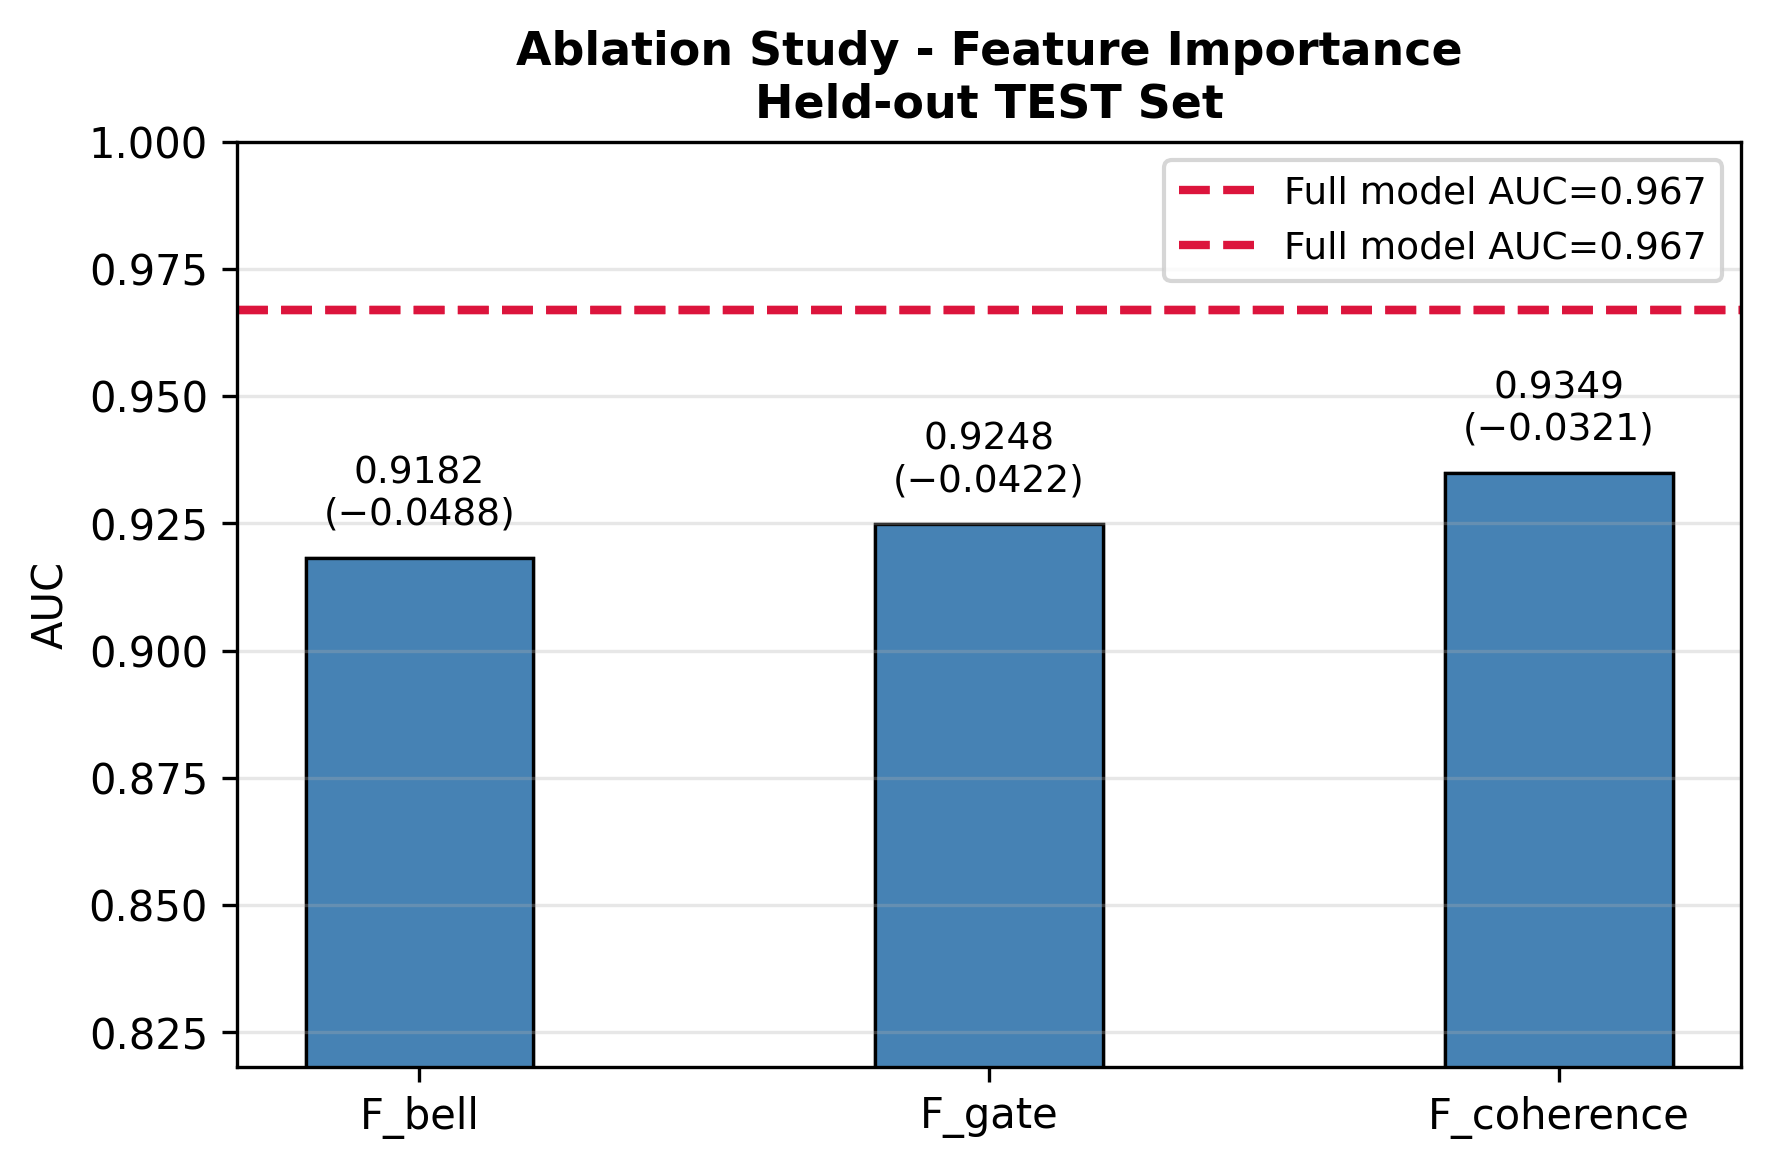
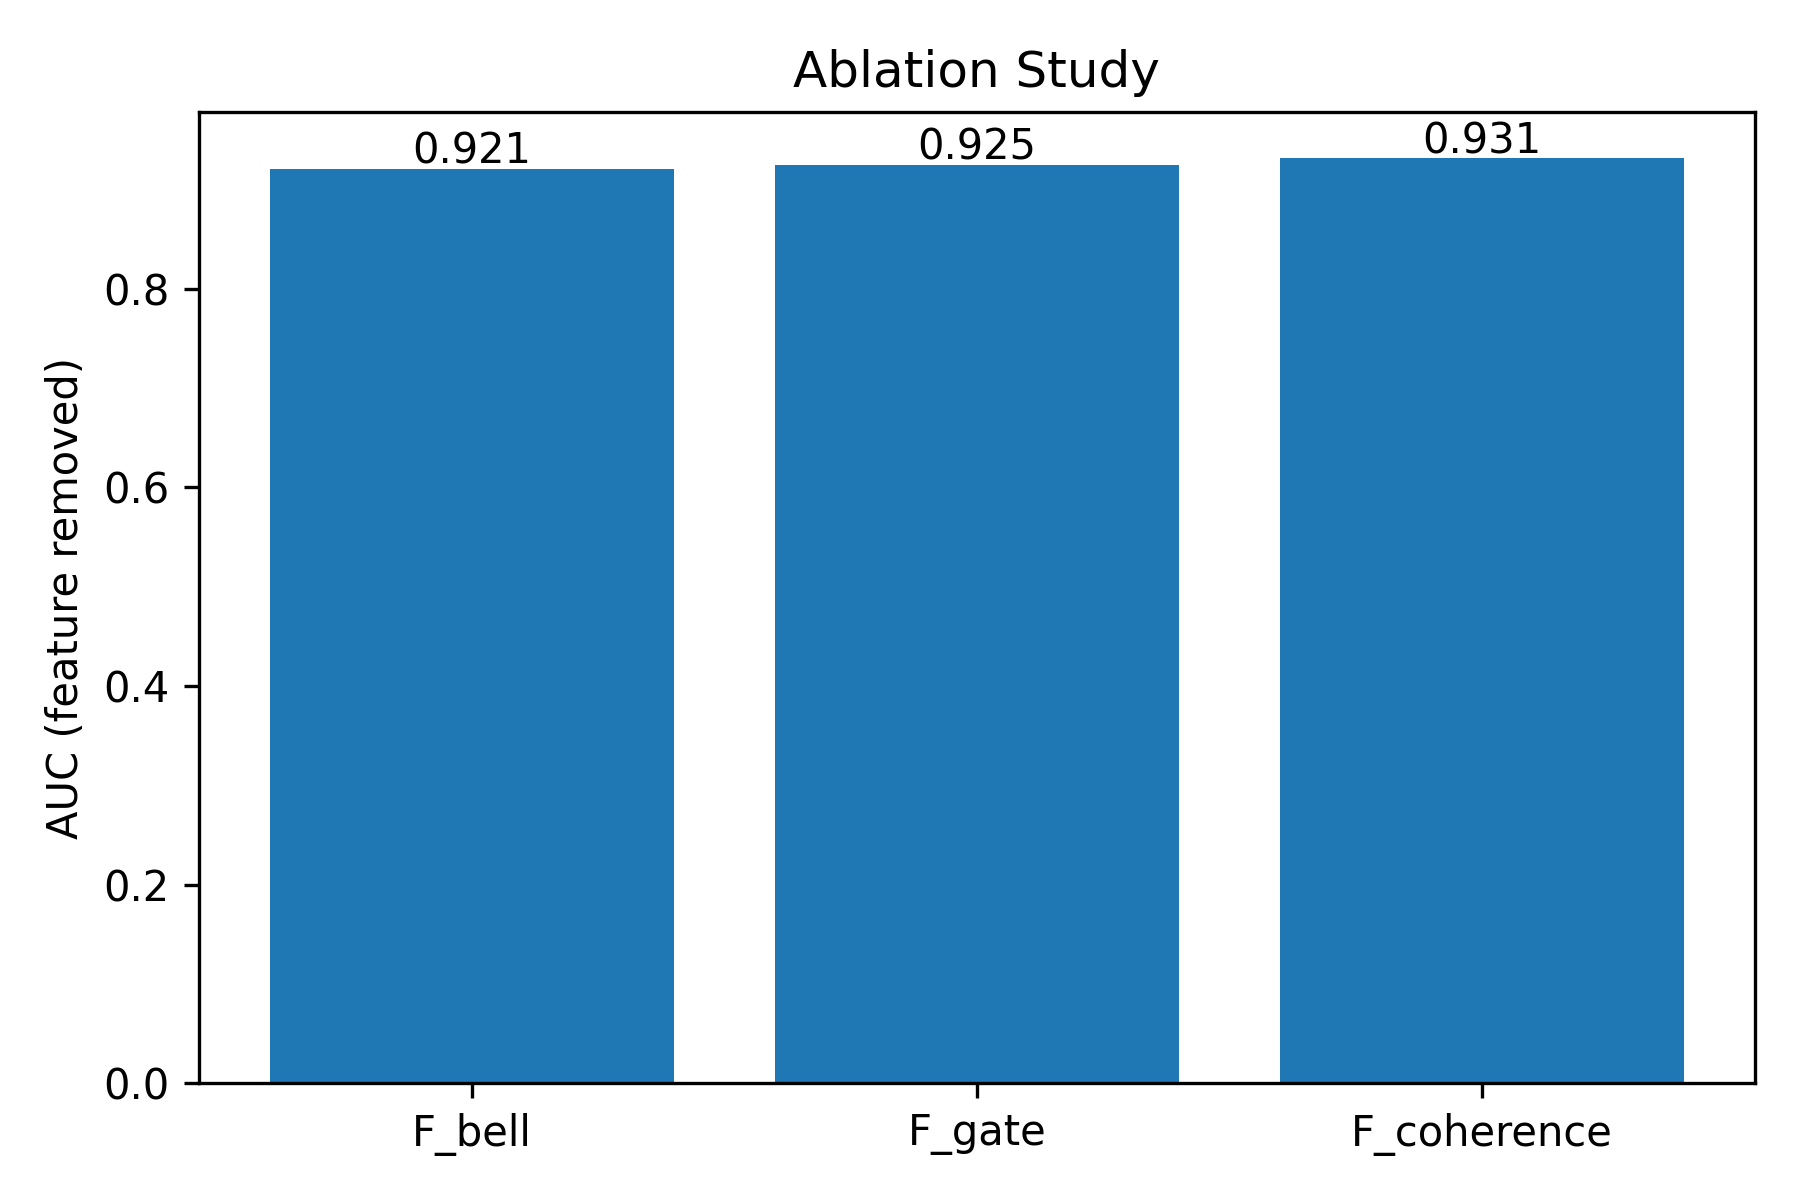
evaluation

diff --git a/6_evaluate.py b/6_evaluate.py
@@ -1,156 +1,189 @@
-# 6_evaluate.py — Quantum Canary Prototype 2
-# ─────────────────────────────────────────────────────────────────────────────
-# FINAL EVALUATION & BENCHMARKING
-#
-# Tests the 10-model MLP ensemble on the held-out TEST split.
-# Compares performance against traditional threshold-based baselines.
-# ─────────────────────────────────────────────────────────────────────────────
-
-import json
 import os
-import pandas as pd
+import json
 import numpy as np
+import pandas as pd
 import matplotlib.pyplot as plt
-from sklearn.metrics import (roc_auc_score, roc_curve, confusion_matrix,
-                             ConfusionMatrixDisplay, accuracy_score,
-                             precision_score, recall_score, f1_score)
-from tensorflow import keras
+import tensorflow as tf
 
-os.makedirs('results', exist_ok=True)
-os.makedirs('figures', exist_ok=True)
+from sklearn.metrics import (
+    roc_auc_score, roc_curve,
+    confusion_matrix, ConfusionMatrixDisplay
+)
 
-# ── 1. LOAD DATA ──────────────────────────────────────────────────────────────
-print("Loading test data and models...")
+# ─────────────────────────────────────────────
+# SETUP
+# ─────────────────────────────────────────────
+
+os.makedirs("figures", exist_ok=True)
+os.makedirs("results", exist_ok=True)
+
+print("Loading dataset...")
+
 df = pd.read_csv("data/features_data.csv")
-with open("data/split_indices.json", encoding="utf-8") as f:
+
+with open("data/split_indices.json", "r") as f:
     split = json.load(f)
 
-# Load baseline results to get traditional benchmarks
-with open("results/baseline_results.json", encoding="utf-8") as f:
-    baseline = json.load(f)
+FEATURES = ["F_bell", "F_gate", "F_coherence"]
 
-FEATURES = ['F_bell', 'F_gate', 'F_coherence']
 X = df[FEATURES].values
 y = df["drifted"].values
 
 X_test = X[split["test"]]
 y_test = y[split["test"]]
 
-# Load normalization params if they exist
-try:
-    scaler_mean = np.load("models/scaler_mean.npy")
-    scaler_scale = np.load("models/scaler_scale.npy")
-    X_test_processed = (X_test - scaler_mean) / scaler_scale
-    print("  ✓ Scaler found and applied.")
-except FileNotFoundError:
-    X_test_processed = X_test
-    print("  ! No scaler found. Using raw features.")
+# ─────────────────────────────────────────────
+# LOAD SCALER (from 4_baselines.py)
+# ─────────────────────────────────────────────
 
-print(f"  Test set size: {len(X_test):,} rows")
-print(f"  Drift rate   : {round(y_test.mean() * 100, 1)}%\n")
+mean = np.load("models/scaler_mean.npy")
+scale = np.load("models/scaler_scale.npy")
 
-# ── 2. ENSEMBLE PREDICTIONS ───────────────────────────────────────────────────
-# Fix: Using the correct filename 'mlp_seed_{seed}.keras' as specified
-print("Predicting with 10-model ensemble...")
-all_test_preds = []
-for seed in range(10):
-    model_path = f"models/mlp_seed_{seed}.keras"
-    if not os.path.exists(model_path):
-        # Fallback check for the 'canary_' prefix just in case
-        model_path = f"models/canary_mlp_seed_{seed}.keras"
-    
-    model = keras.models.load_model(model_path)
-    preds = model.predict(X_test_processed, verbose=0).flatten()
-    all_test_preds.append(preds)
+X_test = (X_test - mean) / scale
 
-ensemble_preds = np.mean(all_test_preds, axis=0)
-ensemble_labels = (ensemble_preds >= 0.5).astype(int)
+# ─────────────────────────────────────────────
+# LOAD BASELINES
+# ─────────────────────────────────────────────
 
-# ── 3. METRICS CALCULATION ────────────────────────────────────────────────────
-auc = round(roc_auc_score(y_test, ensemble_preds), 4)
-accuracy = round(accuracy_score(y_test, ensemble_labels), 4)
-precision = round(precision_score(y_test, ensemble_labels, zero_division=0), 4)
-recall = round(recall_score(y_test, ensemble_labels, zero_division=0), 4)
-f1 = round(f1_score(y_test, ensemble_labels, zero_division=0), 4)
+with open("results/baseline_results.json", "r") as f:
+    baseline = json.load(f)
 
-cm = confusion_matrix(y_test, ensemble_labels)
-tn, fp, fn, tp = cm.ravel()
-specificity = round(tn / (tn + fp), 4)
+threshold_auc = baseline["threshold_classifier"]["auc"]
+logreg_auc = baseline["logistic_regression"]["auc"]
 
-# Benchmark comparison
-thresh_auc = baseline['threshold_classifier']['auc']
-logreg_auc = baseline['logistic_regression']['auc']
-best_traditional_auc = max(thresh_auc, logreg_auc)
-improvement = round((auc - best_traditional_auc) / abs(best_traditional_auc) * 100, 1)
+# ─────────────────────────────────────────────
+# LOAD ENSEMBLE MODELS
+# ─────────────────────────────────────────────
 
-print(f"\n── MLP Ensemble — Performance Report ──")
-print(f"  AUC          : {auc}")
-print(f"  Accuracy     : {accuracy}")
-print(f"  Precision    : {precision}")
-print(f"  Recall       : {recall}")
-print(f"  Specificity  : {specificity}")
-print(f"  F1-Score     : {f1}")
-print(f"  Improvement  : {improvement}% vs best traditional baseline")
+print("Loading ensemble models...")
 
-# ── 4. ROC CURVE VISUALIZATION ────────────────────────────────────────────────
-print("\nGenerating Figures...")
-fpr_mlp, tpr_mlp, _ = roc_curve(y_test, ensemble_preds)
-# For the plot, we re-calculate threshold ROC directly on test set values
-thresh_scores = 1.0 - np.mean(X_test, axis=1) 
+models = [
+    tf.keras.models.load_model(f"models/mlp_seed_{i}.keras")
+    for i in range(10)
+]
+
+# ─────────────────────────────────────────────
+# ENSEMBLE INFERENCE
+# ─────────────────────────────────────────────
+
+all_preds = []
+
+for m in models:
+    p = m.predict(X_test, verbose=0).flatten()
+    all_preds.append(p)
+
+mlp_scores = np.mean(all_preds, axis=0)
+
+# ─────────────────────────────────────────────
+# METRICS
+# ─────────────────────────────────────────────
+
+mlp_auc = roc_auc_score(y_test, mlp_scores)
+
+# threshold baseline scores (same logic as training)
+thresh_scores = -np.mean(X_test, axis=1)
+thresh_auc_calc = roc_auc_score(y_test, thresh_scores)
+
+best_baseline_auc = max(threshold_auc, logreg_auc)
+
+improvement = (mlp_auc - best_baseline_auc) / abs(best_baseline_auc) * 100
+
+print("\n===== TEST RESULTS =====")
+print(f"MLP AUC        : {mlp_auc:.4f}")
+print(f"Threshold AUC  : {threshold_auc:.4f}")
+print(f"Logistic AUC   : {logreg_auc:.4f}")
+print(f"Improvement %  : {improvement:.2f}%")
+
+# ─────────────────────────────────────────────
+# ROC CURVE
+# ─────────────────────────────────────────────
+
+fpr_mlp, tpr_mlp, _ = roc_curve(y_test, mlp_scores)
 fpr_th, tpr_th, _ = roc_curve(y_test, thresh_scores)
 
 plt.figure(figsize=(6, 6))
-plt.plot(fpr_th, tpr_th, color='darkorange', lw=2, label=f'Threshold Baseline (AUC={thresh_auc})')
-plt.plot(fpr_mlp, tpr_mlp, color='crimson', lw=3, label=f'Neural Canary MLP (AUC={auc})')
-plt.plot([0, 1], [0, 1], 'k--', alpha=0.5)
-plt.xlabel('False Positive Rate')
-plt.ylabel('True Positive Rate')
-plt.title('ROC Curve Comparison - IBM Hardware Test Set', fontweight='bold')
-plt.legend(loc='lower right')
+
+plt.plot(fpr_th, tpr_th,
+         label=f"Threshold (AUC={threshold_auc:.3f})")
+
+plt.plot(fpr_mlp, tpr_mlp,
+         label=f"MLP Ensemble (AUC={mlp_auc:.3f})")
+
+plt.plot([0, 1], [0, 1], "k--", alpha=0.5)
+
+plt.xlabel("FPR")
+plt.ylabel("TPR")
+plt.title("ROC Curve — Test Set")
+
+plt.legend()
 plt.grid(alpha=0.3)
+
 plt.tight_layout()
-plt.savefig('figures/fig_roc_ibm_test.png', dpi=300)
+plt.savefig("figures/fig_roc_test.png", dpi=300)
 plt.close()
 
-# ── 5. CONFUSION MATRIX ───────────────────────────────────────────────────────
+# ─────────────────────────────────────────────
+# CONFUSION MATRIX
+# ─────────────────────────────────────────────
+
+y_pred = (mlp_scores >= 0.5).astype(int)
+
+cm = confusion_matrix(y_test, y_pred)
+
+disp = ConfusionMatrixDisplay(
+    confusion_matrix=cm,
+    display_labels=["Stable", "Drifted"]
+)
+
 fig, ax = plt.subplots(figsize=(5, 4))
-disp = ConfusionMatrixDisplay(confusion_matrix=cm, display_labels=['Stable', 'Drifted'])
-disp.plot(ax=ax, cmap='Blues', colorbar=False)
-ax.set_title('MLP Ensemble Confusion Matrix', fontweight='bold')
+disp.plot(ax=ax, cmap="Blues", colorbar=False)
+plt.title("MLP Ensemble Confusion Matrix")
 plt.tight_layout()
-plt.savefig('figures/fig_confusion_matrix_ibm.png', dpi=300)
+
+plt.savefig("figures/fig_confusion_matrix.png", dpi=300)
 plt.close()
 
-# ── 6. ABLATION STUDY ─────────────────────────────────────────────────────────
+# ─────────────────────────────────────────────
+# ABLATION STUDY (FEATURE IMPACT VIA ZEROING)
+# ─────────────────────────────────────────────
+
 print("Running ablation study...")
-ablation = {}
-for drop_feat in FEATURES:
-    preds_abl = []
-    feat_idx = FEATURES.index(drop_feat)
-    X_abl = X_test_processed.copy()
-    X_abl[:, feat_idx] = 0 # Zero out the feature
-    
-    for seed in range(10):
-        model_path = f"models/mlp_seed_{seed}.keras"
-        if not os.path.exists(model_path):
-            model_path = f"models/canary_mlp_seed_{seed}.keras"
-        model = keras.models.load_model(model_path)
-        preds_abl.append(model.predict(X_abl, verbose=0).flatten())
-    
-    abl_auc = round(roc_auc_score(y_test, np.mean(preds_abl, axis=0)), 4)
-    ablation[drop_feat] = abl_auc
-    print(f"  Without {drop_feat:12s}: AUC={abl_auc} (drop={round(auc - abl_auc, 4)})")
 
-# ── 7. SAVE RESULTS ───────────────────────────────────────────────────────────
-with open('results/evaluation_results_ibm.json', 'w') as f:
-    json.dump({
-        "mlp_ensemble": {
-            "auc": auc, "accuracy": accuracy, "precision": precision,
-            "recall": recall, "specificity": specificity, "f1": f1,
-            "improvement": improvement
-        },
-        "ablation": ablation
-    }, f, indent=2)
+ablation_auc = {}
 
-print(f"\nEvaluation Complete.")
-print("  ✓ Saved results/evaluation_results_ibm.json")
+for i, feat in enumerate(FEATURES):
+
+    X_abl = X_test.copy()
+    X_abl[:, i] = 0
+
+    preds = []
+
+    for m in models:
+        preds.append(m.predict(X_abl, verbose=0).flatten())
+
+    score = np.mean(preds, axis=0)
+    auc_score = roc_auc_score(y_test, score)
+
+    ablation_auc[feat] = auc_score
+    print(f"{feat}: {auc_score:.4f}")
+
+# ─────────────────────────────────────────────
+# ABLATION FIGURE
+# ─────────────────────────────────────────────
+
+plt.figure(figsize=(6, 4))
+
+labels = list(ablation_auc.keys())
+values = list(ablation_auc.values())
+
+plt.bar(labels, values)
+
+plt.ylabel("AUC (feature removed)")
+plt.title("Ablation Study")
+
+for i, v in enumerate(values):
+    plt.text(i, v + 0.005, f"{v:.3f}", ha="center")
+
+plt.tight_layout()
+plt.savefig("figures/fig_ablation.png", dpi=300)
+plt.close()
